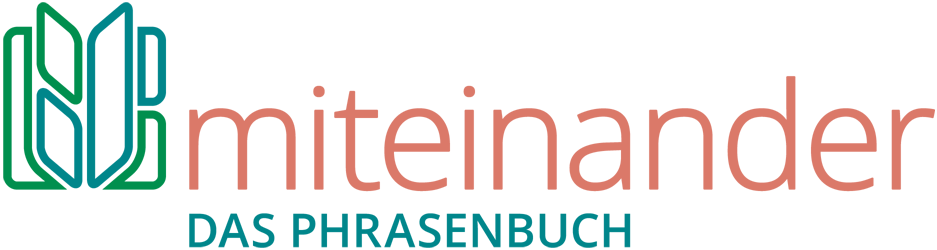
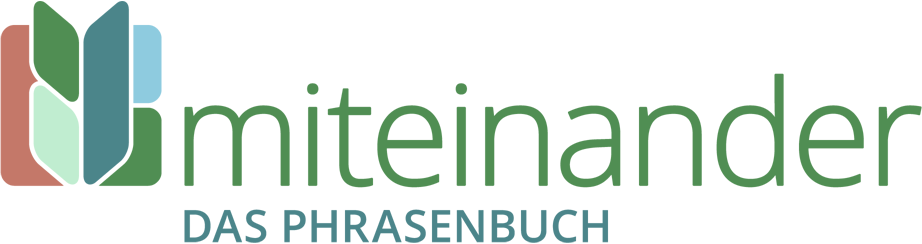
Farben aus ursprünglichen Entwürfen Daniel.

Changed region(s): [[0.0, 0.0, 1.0, 0.7746], [0.1822, 0.832, 0.6985, 1.0], [0.4859, 0.3443, 0.5163, 0.4016]]

diff --git a/app/assets/stylesheets/frontend/layout.sass b/app/assets/stylesheets/frontend/layout.sass
@@ -1,39 +1,31 @@
 .turbolinks-progress-bar
-  display: none
-.flash
-  position: absolute
-  width: 30%
-  left: 50%
-  margin-left: -15%
-  top: 0
-  border-radius: 10px
-  padding: .25em .25em .25em .5em
-  font-size: 10pt
-  
+  display: none  
+
 a
-  color: $dark_blue
+  color: $teal1
   &:visited
-    color: $dark_blue
+    color: $teal1
   &:hover,
   &:active,
   &:focus
-    color: $light_red
+    color: $red1
 
 #{$all-buttons},
 .button
-  background-color: $dark_blue
-  color: white
+  background-color: $teal1
+  color: $white
   &:visited
-    background-color: $dark_blue
-    color: white
+    background-color: $teal1
+    color: $white
   &:hover,
   &:active,
   &:focus
-    background-color: $light_red
-    color: white
+    background-color: $red1
+    color: $white
     
 body
   padding: 1em
+  font: 12pt $font_sans
 header,
 main,
   @include outer-container(960px)
@@ -59,6 +51,15 @@ header
         a
           font-size: 20pt
           padding: .55em .85em .5em .85em !important
+  .flash
+    position: absolute
+    width: 30%
+    left: 50%
+    margin-left: -15%
+    top: 0
+    border-radius: 10px
+    padding: .25em .25em .25em .5em
+    font-size: 10pt
 main, #phrases_list
   margin-top: 1em
 #beta_banner

diff --git a/app/assets/stylesheets/_variables.sass b/app/assets/stylesheets/_variables.sass
@@ -1,4 +1,28 @@
-$white: #ffffff
+// Alle Farben, von oben nach unten heller werdend
+// ===============================================
+
+// 100% schwarz & weiß
+$black:   rgb(  0,   0,   0)
+$white:   rgb(255, 255, 255)
+
+// Verschiedene Grautöne
+$grey1:   #cccccc
+$grey2:   #eaeaea
+$grey3:   #eeeeee
+
+// Rottöne aus E-Mail Daniel Petri vom 13.10.2015
+$red1:    rgb(219, 121, 105)
+$red2:    rgb(239, 220, 216)
+
+// Grün und Türkis aus Entwürfen Daniel Petri extrahiert
+$green1:  #508e53
+$green2:  #c0edd0
+$teal1:   #4b858a
+$teal2:   #8ecbdf
+
+// Nur noch im Admin benutzte Farben
+// =================================
+
 $dark_white: #eaeaea
 $medium_grey: #eeeeee
 $dark_grey: #cccccc
@@ -16,6 +40,9 @@ $very_light_blue: #b1d8d9
 $light_blue: #64c1c4
 $dark_blue: #00868b
 
-$font_sans: 'Open Sans', sans
-$font_serif: 'Vollkorn', sans-serif
-$font_arabic: 'Lateef', 'Amiri', 'Times New Roman', sans
+// Alle Fonts, von links nach rechts allgemeiner werdend
+// =====================================================
+
+$font_sans:   'Open Sans', 'Helvetica', 'Arial',           sans-serif
+$font_arabic: 'Open Sans', 'Al Bayan',  'Times New Roman', sans-serif
+$font_serif:  'Vollkorn',  'Palatino',  'Times New Roman', serif

diff --git a/app/assets/stylesheets/frontend/phrases.sass b/app/assets/stylesheets/frontend/phrases.sass
@@ -6,10 +6,10 @@ form.search-bar button
   margin-top: 1.125em
   .phrase
     border-radius: 3px
-    @include linear-gradient(to bottom, $very_light_red, $really_light_red)
+    background-color: $red2
     margin-bottom: 1em
-    border: 1px solid $dark_grey
-    box-shadow: 6px 7px 11px -5px rgba(0,0,0,0.65)
+    border: 1px solid $grey3
+    box-shadow: 6px 7px 11px -5px rgba(0, 0, 0, 0.65) // 65% black
     vertical-align: top
     @include omega(4n)
     @include span-columns(3)
@@ -19,6 +19,11 @@ form.search-bar button
       
     a
       text-decoration: none
+      color: $black
+      &:hover,
+      &:active,
+      &:focus
+        color: $teal1
     .translations
       padding: .5em
       .left,
@@ -32,11 +37,12 @@ form.search-bar button
     .tags
       clear: both
       padding-left: .25em
-      background-color: $light_red
+      background-color: $red1
       overflow: hidden
       height: 1.6em
       text-align: center
+      font: 10pt
       span
         margin: 0 .25em .2em 0
         padding: .15em .5em .2em .5em
-        background-color: $dark_white
+        background-color: $grey3

diff --git a/app/assets/stylesheets/_bidi.sass b/app/assets/stylesheets/_bidi.sass
@@ -6,8 +6,7 @@
 *[lang=ps]
   direction: rtl
   unicode-bidi: bidi-override
-  font-family: $font_arabic
-  font-size: 135%
+  font: 120% $font_arabic
 *[lang=de],
 *[lang=en],
 *[lang=ku]

diff --git a/app/assets/stylesheets/frontend/_grid-settings.sass b/app/assets/stylesheets/frontend/_grid-settings.sass
@@ -2,7 +2,7 @@
 
 // Visual grid
 $visual-grid: false
-$visual-grid-color: #ff0000
+$visual-grid-color: red
 $visual-grid-opacity: 0.1
 
 // Breakpoints

diff --git a/app/helpers/application_helper.rb b/app/helpers/application_helper.rb
@@ -113,12 +113,12 @@ module ApplicationHelper
     if translation.recording_data
       path = translation_path(translation, format: :mp3)
       link_to(
-        content_tag('span', fa_icon('volume-up')+' '+translation.text),
+        content_tag('span', fa_icon('volume-up')+' '+translation.text, {lang: translation.language}),
         path,
         {class: "audio_recording #{side}"}
       )+content_tag('audio', nil, {src: path, controls: false, preload: :none})
     else
-      content_tag('span', translation.text, {class: side, lang: translation.language})
+      content_tag('span', translation.text, {class: side, lang: translation.language, lang: translation.language})
     end
   end
   
